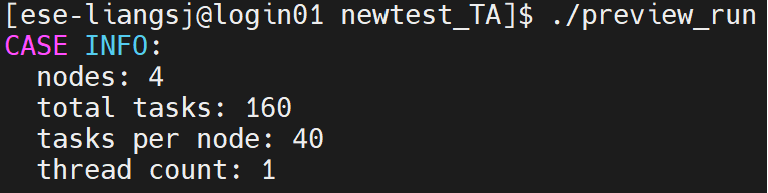
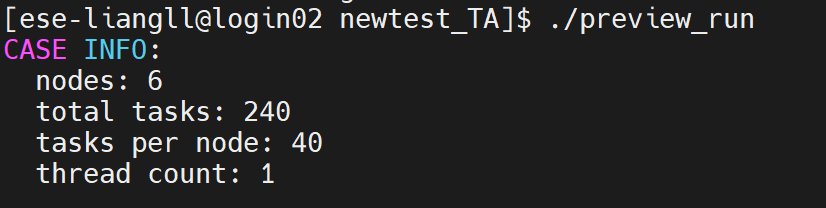
Add tutorial 2

Changed region(s): [[0.0312, 0.342, 0.4375, 0.9326], [0.0, 0.0, 1.0, 0.3109]]

diff --git a/.ipynb_checkpoints/CESM2-tutorial-SST-case-checkpoint.md b/.ipynb_checkpoints/CESM2-tutorial-SST-case-checkpoint.md
@@ -1,25 +1,16 @@
-Website page:  
-layout: page
-title: "CESM2-worknotes"
-permalink: /CESM2-tutorial-SST2023/
-
-------
-
 # CESM2 Tutorial  
 - Learning the FHIST_BGC case in CESM2
 - Case study: modifying sea surface temperature (SST) in the FHIST_BGC case
 
-Experiment design
-====
-
 Background:
-----
-Global sea surface temperature (SST) is warming for the past decades. Notably, SST in year 2023 is going to be the hottest that has never been seen in the historical data (see following figure). Since this year, we witnessed several extreme events, one of those worthnoting events would be the storm *"Daniel"*, a Mediterranean tropical-like cyclone on record, leading to over 11,000 deaths in Libya [$^{[1]}$](https://news.sky.com/story/libya-floods-number-of-deaths-in-derna-could-reach-20-000-mayor-says-12960801).
+====
+Global sea surface temperature (SST) is warming for the past decades. Notably, SST in year 2023 is going to be the hottest that has never been seen in the historical data (see following figure). Since this year, we witnessed several extreme events, one of those worthnoting events would be the storm *"Daniel"*, a Mediterranean tropical-like cyclone on record, leading to over 11,000 deaths in Libya [1](https://news.sky.com/story/libya-floods-number-of-deaths-in-derna-could-reach-20-000-mayor-says-12960801).
 
 ![pic2](./pics/tutorial2_2.png)
+Source: [https://climatereanalyzer.org/clim/sst_daily/](https://climatereanalyzer.org/clim/sst_daily/)
 
 Questions:
-----
+====
 - What changes in climate would occur driven by 2023 extreme warm SST?
 
 - How vegetation would be affected, response, and feedback to climate changes brought by high SST?
@@ -36,12 +27,64 @@ Details for all scientific supported cases, please refer to [CEMS2 compset defin
 
 Input data: SST forcings
 ====
+Look up for variables defined in [CAM6.0 Namelist Definitions](https://docs.cesm.ucar.edu/models/cesm2/settings/2.1.3/cam_nml.html)  
+Link: https://docs.cesm.ucar.edu/models/cesm2/settings/2.1.3/cam_nml.html
 
-Control experiment
+|**Variable**|**Category**|**Entry Type**|
+|---|---|---|
+|bndtvs|ocn|char*256|
+
+> - Full pathname of time-variant sea-surface temperature and sea-ice
+concentration boundary dataset.
+> - Default: set by build-namelist.
+> - For example, /data/ese-liangll/CESM2.1.3/inputdata/atm/cam/sst/sst_HadOIBl_bc_0.9x1.25_1850_2017_c180507.nc
+
+Variable "bndtvs" is set by build-namelist, meaning that this variable is associated with the case.build process and should be modified before case.build process. "bndtvs" is specified in env_run.xml file (see below).
+
+Experiment design
 ====
 
-SST2023 experiment
+We have already created the input data (aka forcings) for the experiment. Here we run two simulations: (1) replacing the data-driven ocean (docn) with the observed SSTs at the year 2000 as forcing (looping over 2000 SSTs during the whole model running period), which is defined as the control simulation here; (2) replacing the docn with the obserbed SSTs at the year 2023 as forcing. Later, by comparing the (2) with (1), we shall get the results orginitated from soely changes in SSTs. 
+
+Modify SST forcings  
 ====
+![pic3](./pics/tutorial2_3.png)
+- Create the FHIST_BGC case (mentioned in [tutorial 1](https://shijingliang.github.io/CESM2-tutorial))
+- Go to /data/ese-liangll/CESM2.1.3/cases/<font color="red">newtest_TA</font>/
+- Right click env_run.xml
+- Chose "Open with default text editor"
+
+Note: replacing the "newtest_TA" with your new case name.
+
+> Note: Either typing "vi env_run.xml" in command line or using mobaXterm default test editor is okay here. Getting Git for version control is highly recommended! However, version control won't be covered in this tutorial.  
+> Warning: revising env_run.xml is not recommended and rarely seen in using CESM2.
+
+- Find "SSTICE_DATA_FILENAME" in env_run.xml
+- Replacing file name with customized SST file name:  
+  (1) SST 2000:  value="\$DIN_LOC_ROOT/atm/cam/sst/customized_sst2000fill_bc_0.9x1.25_1850_2017_c180507.nc"
+
+  (2) SST 2023:  value="\$DIN_LOC_ROOT/atm/cam/sst/customized_sst2023fill_bc_0.9x1.25_1850_2017_c180507.nc"
+
+![pic4](./pics/tutorial2_4.png)
+
+Running the case with SST modifications
+====
+
+- \[ese-liangll@login02 newtest_TA]$./xmlchange STOP_OPTION=nmonths,STOP_N=12
+
+- \[ese-liangll@login02 newtest_TA]$./xmlchange NTASKS=240
+
+- \[ese-liangll@login02 newtest_TA]$./case.setup
+
+- \[ese-liangll@login02 newtest_TA]$./case.build
+
+- \[ese-liangll@login02 newtest_TA]$vi run_newtestTA.sh
+
+>bsub -J <font color="red">newtest_TA</font> -q medium -n 240 -R "span\[ptile=40]" -W 12:00 -o stdout_%J.out -e stderr_%J.err ./case.submit
+
+- \[ese-liangll@login02 newtest_TA]$chmod 740 run_newtestTA.sh
+ 
+- \[ese-liangll@login02 newtest_TA]$./run_newtestTA.sh
 
 
 

diff --git a/CESM2-tutorial-SST-case.md b/CESM2-tutorial-SST-case.md
@@ -2,18 +2,15 @@
 - Learning the FHIST_BGC case in CESM2
 - Case study: modifying sea surface temperature (SST) in the FHIST_BGC case
 
-Experiment design
-====
-
 Background:
-----
+====
 Global sea surface temperature (SST) is warming for the past decades. Notably, SST in year 2023 is going to be the hottest that has never been seen in the historical data (see following figure). Since this year, we witnessed several extreme events, one of those worthnoting events would be the storm *"Daniel"*, a Mediterranean tropical-like cyclone on record, leading to over 11,000 deaths in Libya [1](https://news.sky.com/story/libya-floods-number-of-deaths-in-derna-could-reach-20-000-mayor-says-12960801).
 
 ![pic2](./pics/tutorial2_2.png)
 Source: [https://climatereanalyzer.org/clim/sst_daily/](https://climatereanalyzer.org/clim/sst_daily/)
 
 Questions:
-----
+====
 - What changes in climate would occur driven by 2023 extreme warm SST?
 
 - How vegetation would be affected, response, and feedback to climate changes brought by high SST?
@@ -30,12 +27,64 @@ Details for all scientific supported cases, please refer to [CEMS2 compset defin
 
 Input data: SST forcings
 ====
+Look up for variables defined in [CAM6.0 Namelist Definitions](https://docs.cesm.ucar.edu/models/cesm2/settings/2.1.3/cam_nml.html)  
+Link: https://docs.cesm.ucar.edu/models/cesm2/settings/2.1.3/cam_nml.html
 
-Control experiment
+|**Variable**|**Category**|**Entry Type**|
+|---|---|---|
+|bndtvs|ocn|char*256|
+
+> - Full pathname of time-variant sea-surface temperature and sea-ice
+concentration boundary dataset.
+> - Default: set by build-namelist.
+> - For example, /data/ese-liangll/CESM2.1.3/inputdata/atm/cam/sst/sst_HadOIBl_bc_0.9x1.25_1850_2017_c180507.nc
+
+Variable "bndtvs" is set by build-namelist, meaning that this variable is associated with the case.build process and should be modified before case.build process. "bndtvs" is specified in env_run.xml file (see below).
+
+Experiment design
 ====
 
-SST2023 experiment
+We have already created the input data (aka forcings) for the experiment. Here we run two simulations: (1) replacing the data-driven ocean (docn) with the observed SSTs at the year 2000 as forcing (looping over 2000 SSTs during the whole model running period), which is defined as the control simulation here; (2) replacing the docn with the obserbed SSTs at the year 2023 as forcing. Later, by comparing the (2) with (1), we shall get the results orginitated from soely changes in SSTs. 
+
+Modify SST forcings  
 ====
+![pic3](./pics/tutorial2_3.png)
+- Create the FHIST_BGC case (mentioned in [tutorial 1](https://shijingliang.github.io/CESM2-tutorial))
+- Go to /data/ese-liangll/CESM2.1.3/cases/<font color="red">newtest_TA</font>/
+- Right click env_run.xml
+- Chose "Open with default text editor"
+
+Note: replacing the "newtest_TA" with your new case name.
+
+> Note: Either typing "vi env_run.xml" in command line or using mobaXterm default test editor is okay here. Getting Git for version control is highly recommended! However, version control won't be covered in this tutorial.  
+> Warning: revising env_run.xml is not recommended and rarely seen in using CESM2.
+
+- Find "SSTICE_DATA_FILENAME" in env_run.xml
+- Replacing file name with customized SST file name:  
+  (1) SST 2000:  value="\$DIN_LOC_ROOT/atm/cam/sst/customized_sst2000fill_bc_0.9x1.25_1850_2017_c180507.nc"
+
+  (2) SST 2023:  value="\$DIN_LOC_ROOT/atm/cam/sst/customized_sst2023fill_bc_0.9x1.25_1850_2017_c180507.nc"
+
+![pic4](./pics/tutorial2_4.png)
+
+Running the case with SST modifications
+====
+
+- \[ese-liangll@login02 newtest_TA]$./xmlchange STOP_OPTION=nmonths,STOP_N=12
+
+- \[ese-liangll@login02 newtest_TA]$./xmlchange NTASKS=240
+
+- \[ese-liangll@login02 newtest_TA]$./case.setup
+
+- \[ese-liangll@login02 newtest_TA]$./case.build
+
+- \[ese-liangll@login02 newtest_TA]$vi run_newtestTA.sh
+
+>bsub -J <font color="red">newtest_TA</font> -q medium -n 240 -R "span\[ptile=40]" -W 12:00 -o stdout_%J.out -e stderr_%J.err ./case.submit
+
+- \[ese-liangll@login02 newtest_TA]$chmod 740 run_newtestTA.sh
+ 
+- \[ese-liangll@login02 newtest_TA]$./run_newtestTA.sh
 
 
 

diff --git a/.ipynb_checkpoints/CESM2-tutorial-checkpoint.md b/.ipynb_checkpoints/CESM2-tutorial-checkpoint.md
@@ -66,6 +66,9 @@ Change run options: do monthly run for 12 months
 
 >\[ese-liangll@login02 newtest_TA]$ ./xmlchange STOP_OPTION=nmonths,STOP_N=12
 
+Change computation requirement: total tasks = 240 cores
+>\[ese-liangll@login02 newtest_TA]$ ./xmlchange NTASKS=240
+
 Check the running requirements
 
 >\[ese-liangll@login02 newtest_TA]$ ./preview_run
@@ -96,7 +99,7 @@ Do preview run to check the requirement to run the case.
 
 Type the following statements. Note: you may need to change the case name with your own.
 
->bsub -J <font color="red">newtest_TA</font> -q short -n 140 -R "span\[ptile=40]" -W 12:00 -o stdout_%J.out -e stderr_%J.err ./case.submit
+>bsub -J <font color="red">newtest_TA</font> -q medium -n 240 -R "span\[ptile=40]" -W 12:00 -o stdout_%J.out -e stderr_%J.err ./case.submit
 
 >\[ese-liangll@login02 newtest_TA]$ chmod 740 run_newtest_TA.sh
 >[ese-liangll@login02 newtest_TA]$ ./run_newtest_TA.sh

diff --git a/CESM2-tutorial.md b/CESM2-tutorial.md
@@ -66,6 +66,9 @@ Change run options: do monthly run for 12 months
 
 >\[ese-liangll@login02 newtest_TA]$ ./xmlchange STOP_OPTION=nmonths,STOP_N=12
 
+Change computation requirement: total tasks = 240 cores
+>\[ese-liangll@login02 newtest_TA]$ ./xmlchange NTASKS=240
+
 Check the running requirements
 
 >\[ese-liangll@login02 newtest_TA]$ ./preview_run
@@ -96,7 +99,7 @@ Do preview run to check the requirement to run the case.
 
 Type the following statements. Note: you may need to change the case name with your own.
 
->bsub -J <font color="red">newtest_TA</font> -q short -n 140 -R "span\[ptile=40]" -W 12:00 -o stdout_%J.out -e stderr_%J.err ./case.submit
+>bsub -J <font color="red">newtest_TA</font> -q medium -n 240 -R "span\[ptile=40]" -W 12:00 -o stdout_%J.out -e stderr_%J.err ./case.submit
 
 >\[ese-liangll@login02 newtest_TA]$ chmod 740 run_newtest_TA.sh
 >[ese-liangll@login02 newtest_TA]$ ./run_newtest_TA.sh
